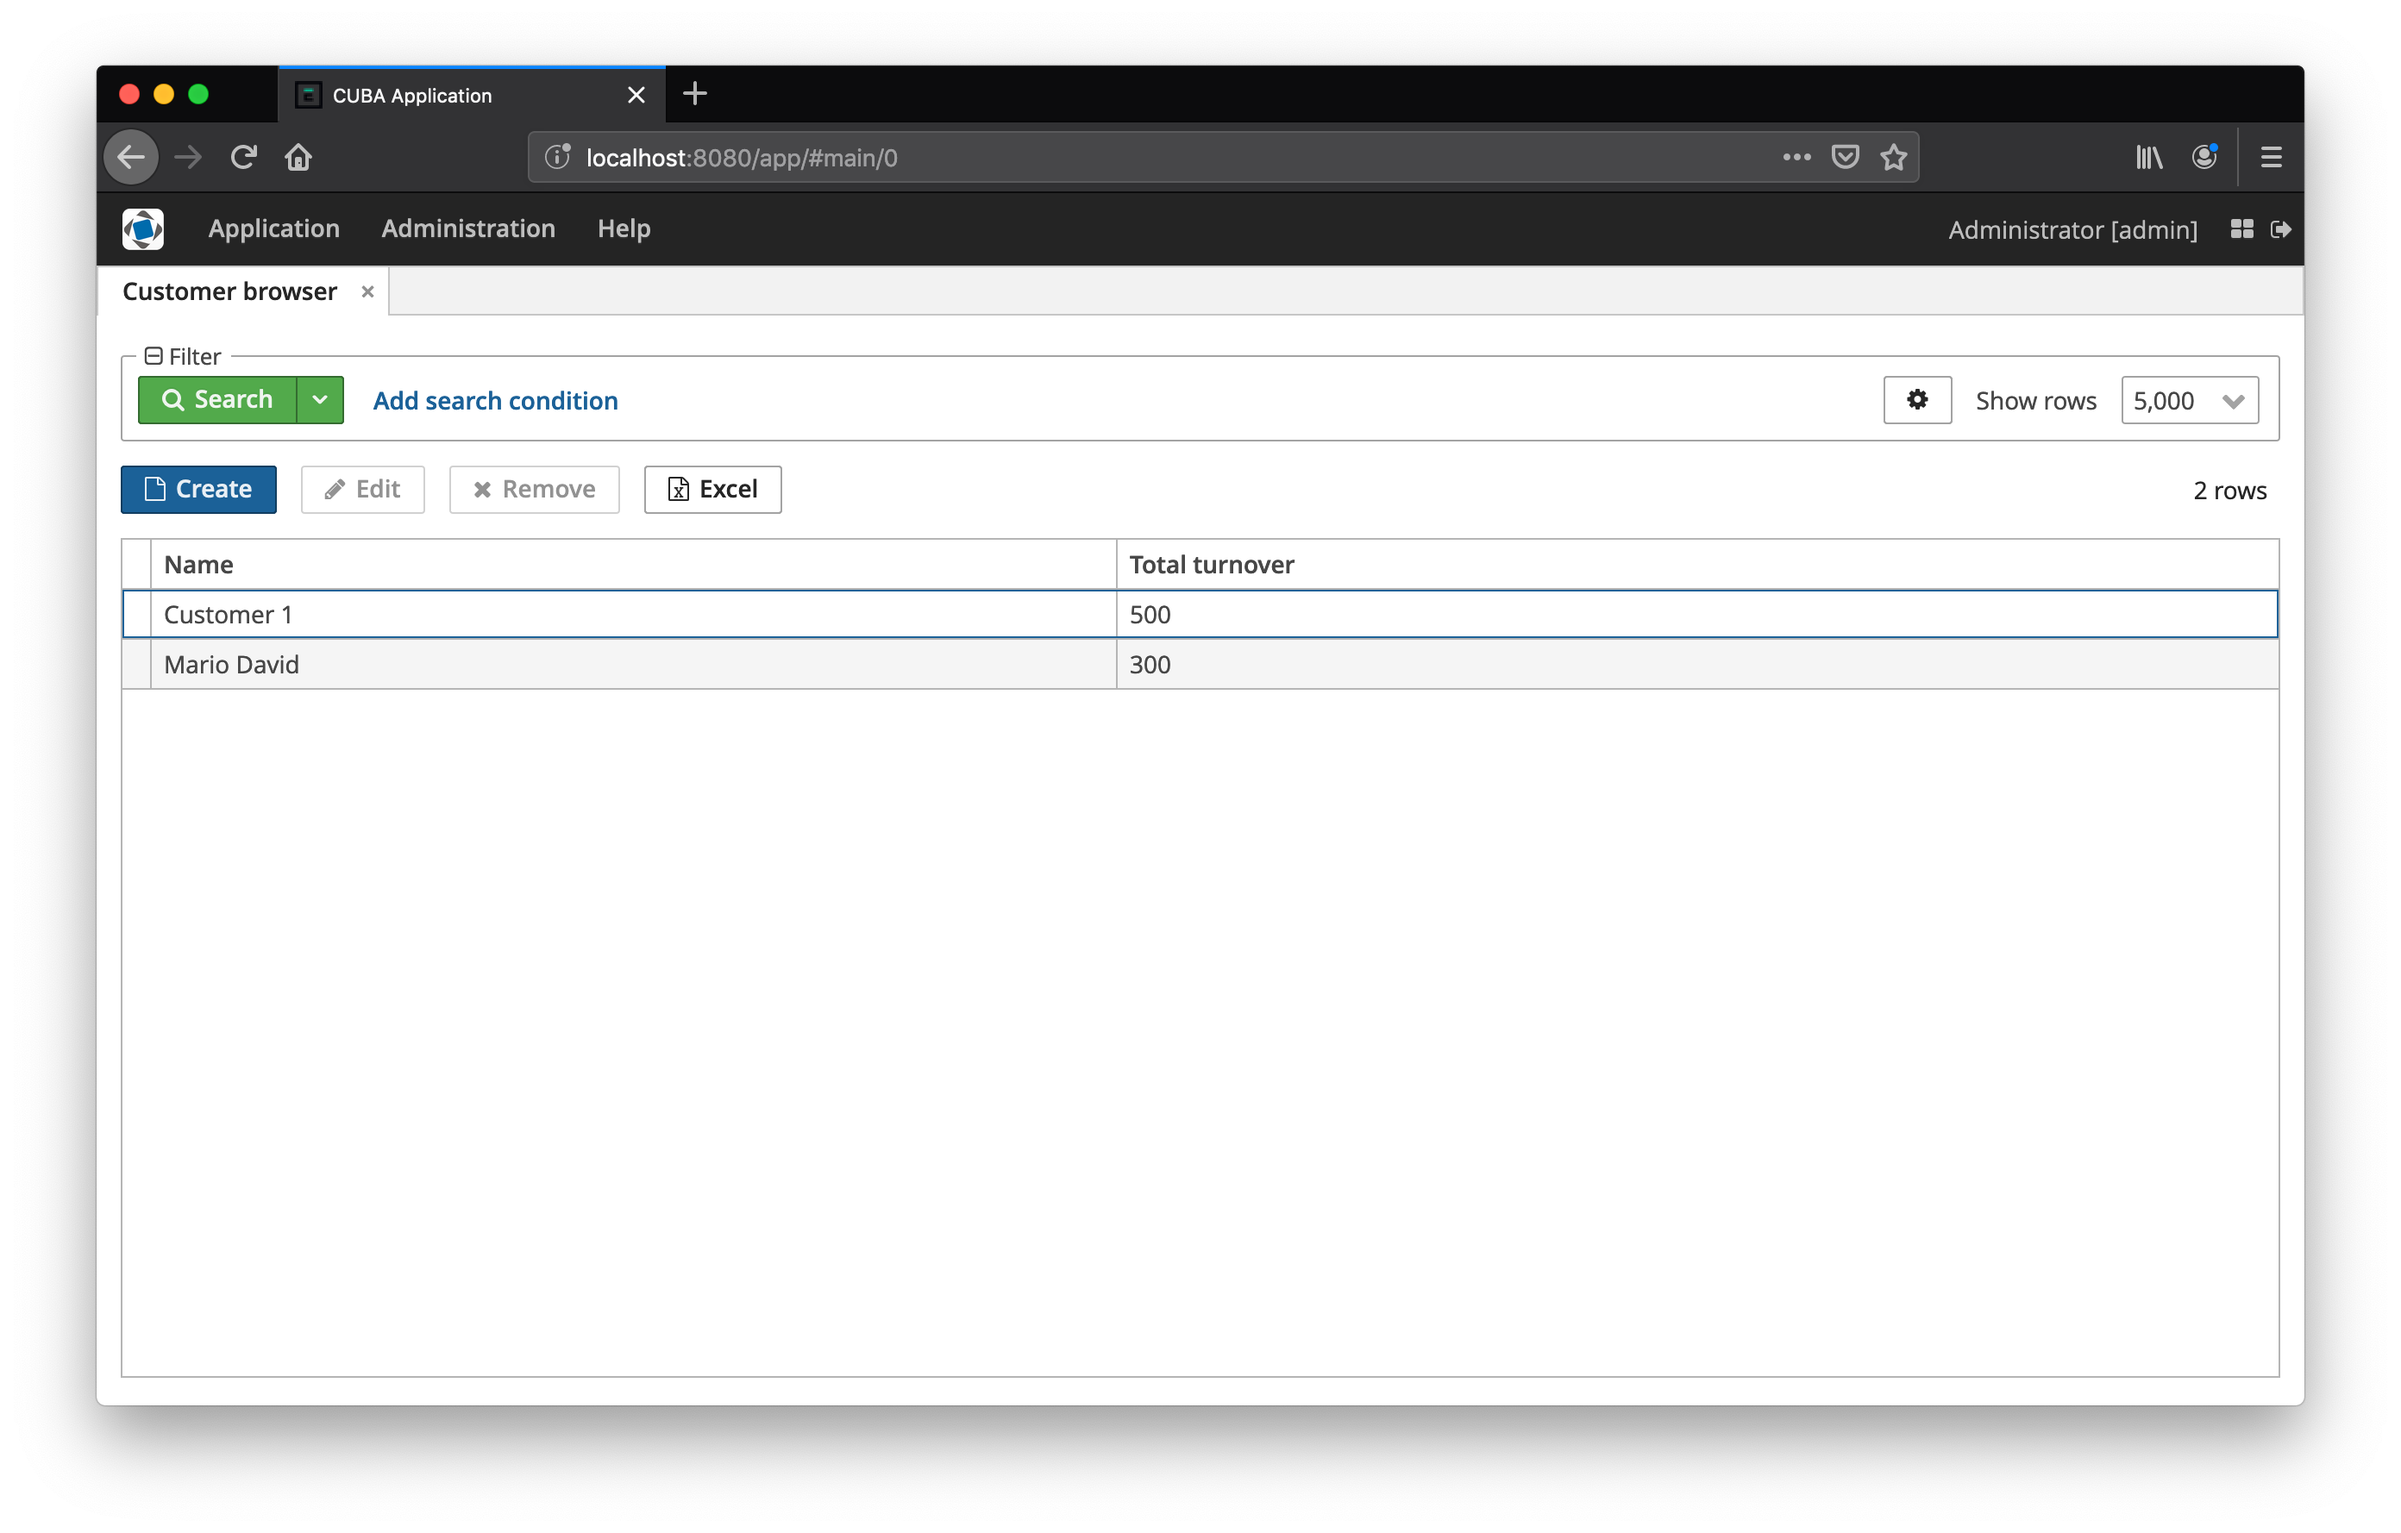
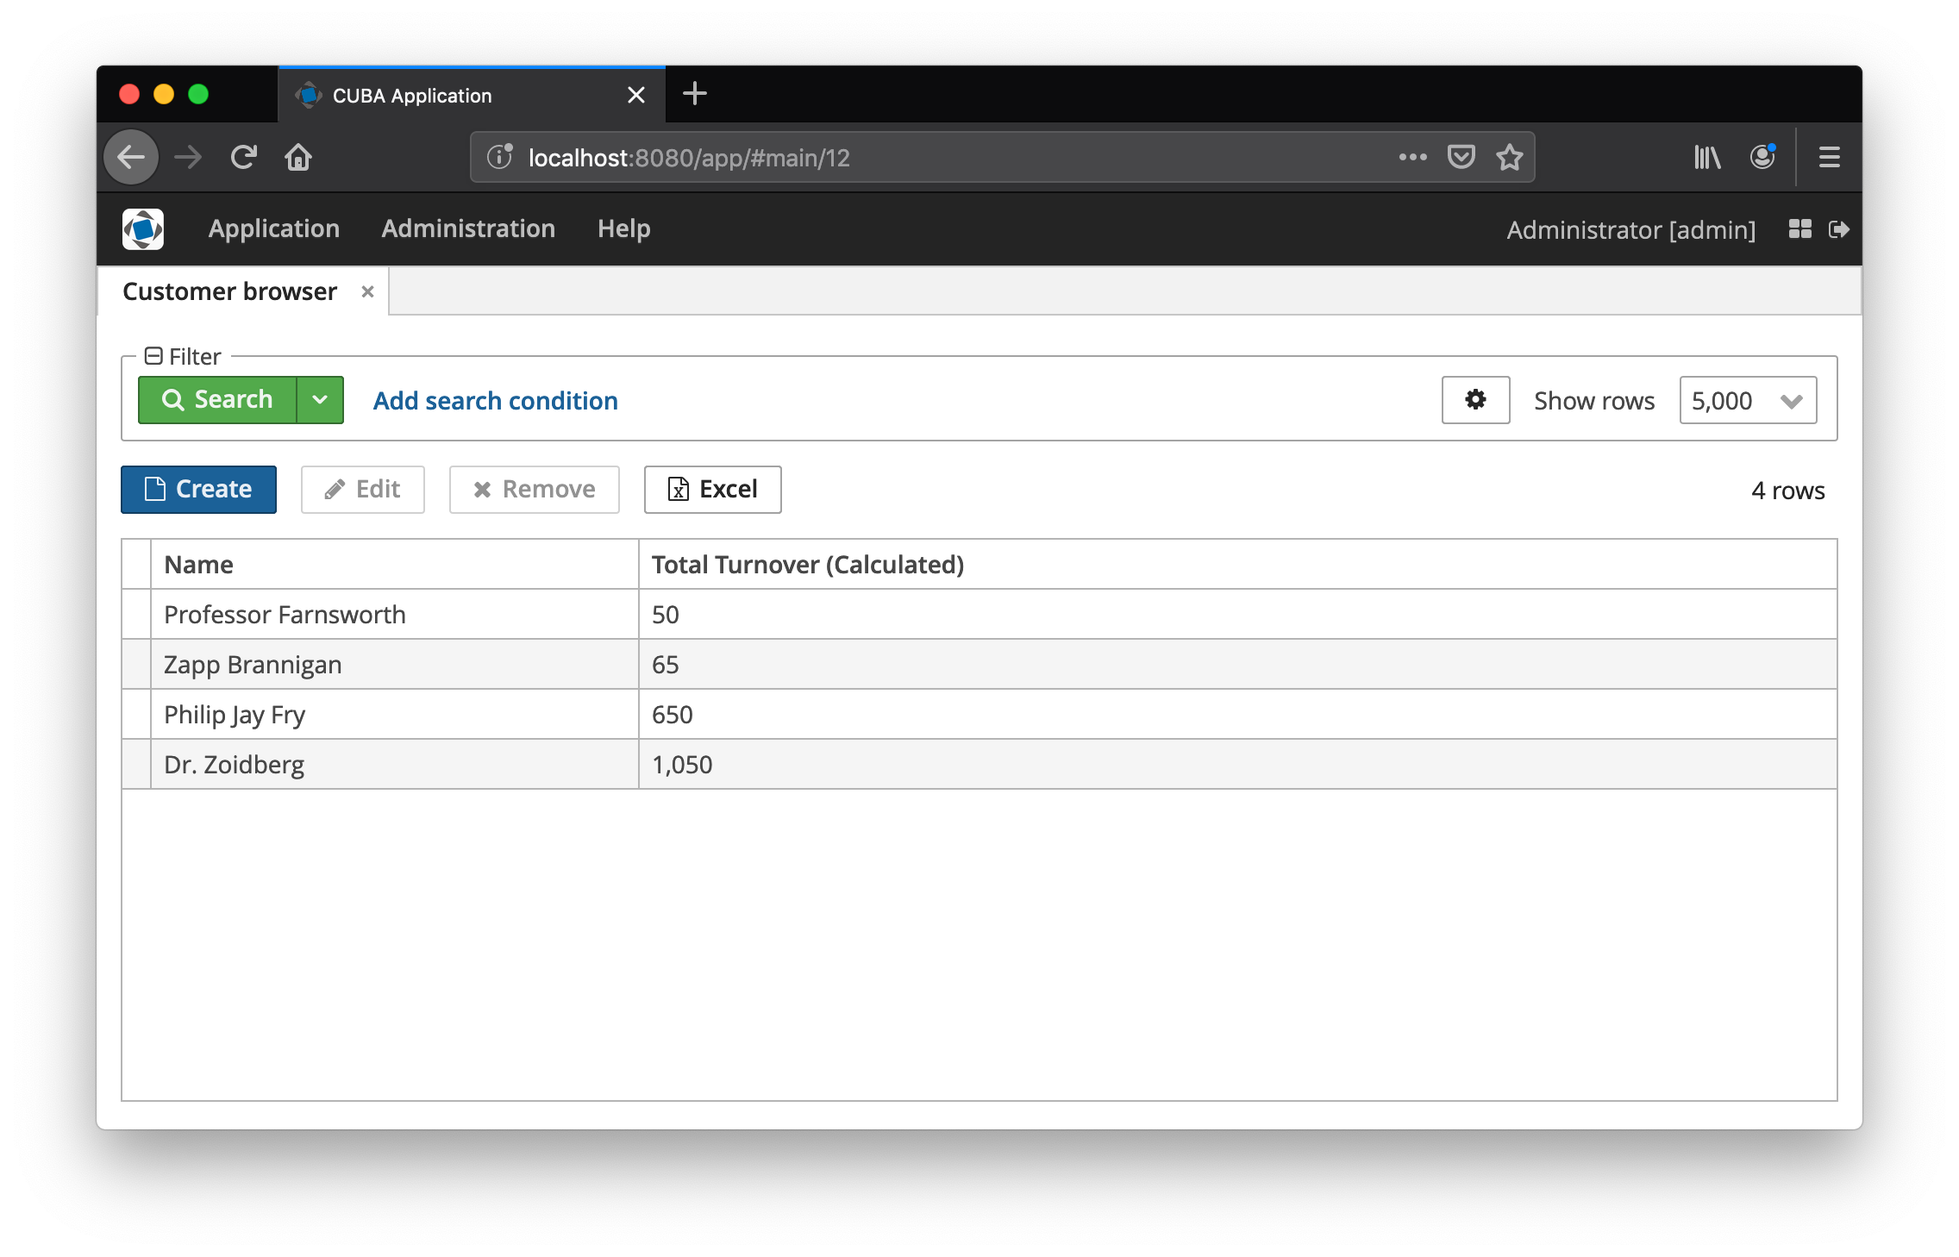
fixed images

Changed region(s): [[0.0312, 0.0309, 0.9688, 0.9568]]

diff --git a/README.md b/README.md
@@ -211,6 +211,10 @@ The third solution is a solves the problems of the first and the second solution
 is defined, that will to the aggregation. Then this view is mapped to an JPA entity, which will be linked
 into to the customer.
 
+
+![solution-3](https://github.com/mariodavid/cuba-example-calculated-values/blob/master/img/solution-3.png)
+
+
 This way, the database still knows about the data, therefore it is possible to filter / sort for the column.
 However, the data is not persisted, but calculated on the fly during fetching the data from the view.
 
